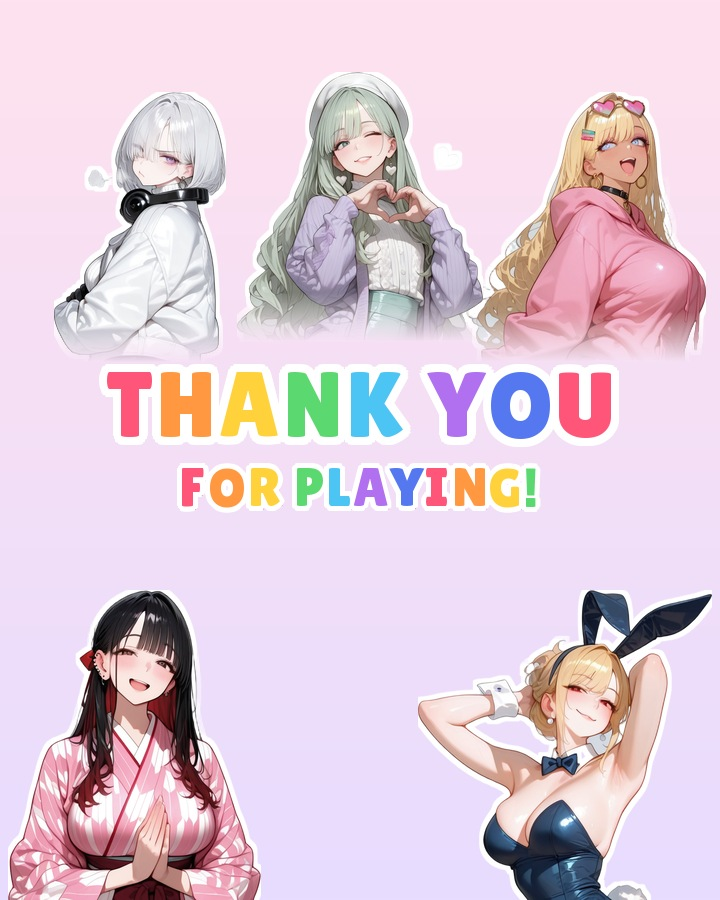
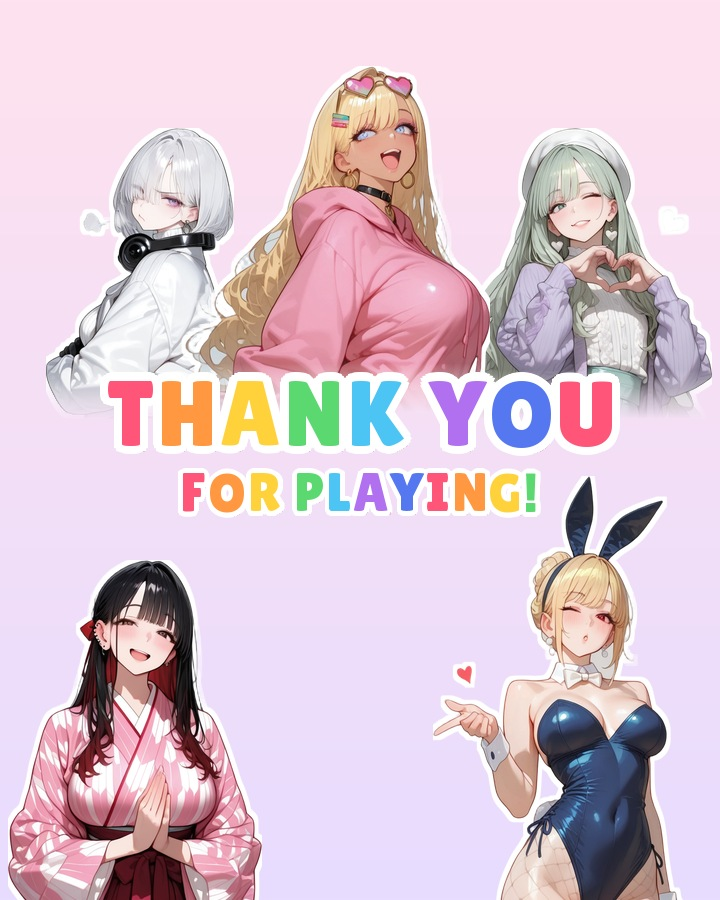
feat(art): lay out the thank-you title with the faces at one size around centered words

diff --git a/internal/game/reward_pixels_test.go b/internal/game/reward_pixels_test.go
@@ -28,7 +28,9 @@ func TestPixelsTitleShowsItsReward(t *testing.T) {
 		t.Fatal(err)
 	}
 	old := assets.FS()
-	assets.Use(overlayFS{old, fstest.MapFS{"ui/" + titleCompleteArt + ".png": {Data: buf.Bytes()}}})
+	// under the .jpg name, which is looked up before .png and is the name of the real picture
+	// (image.Decode reads the PNG data by its content, not by the name)
+	assets.Use(overlayFS{old, fstest.MapFS{"ui/" + titleCompleteArt + ".jpg": {Data: buf.Bytes()}}})
 	assets.ReleaseUI(titleCompleteArt)
 	t.Cleanup(func() {
 		assets.Use(old)
